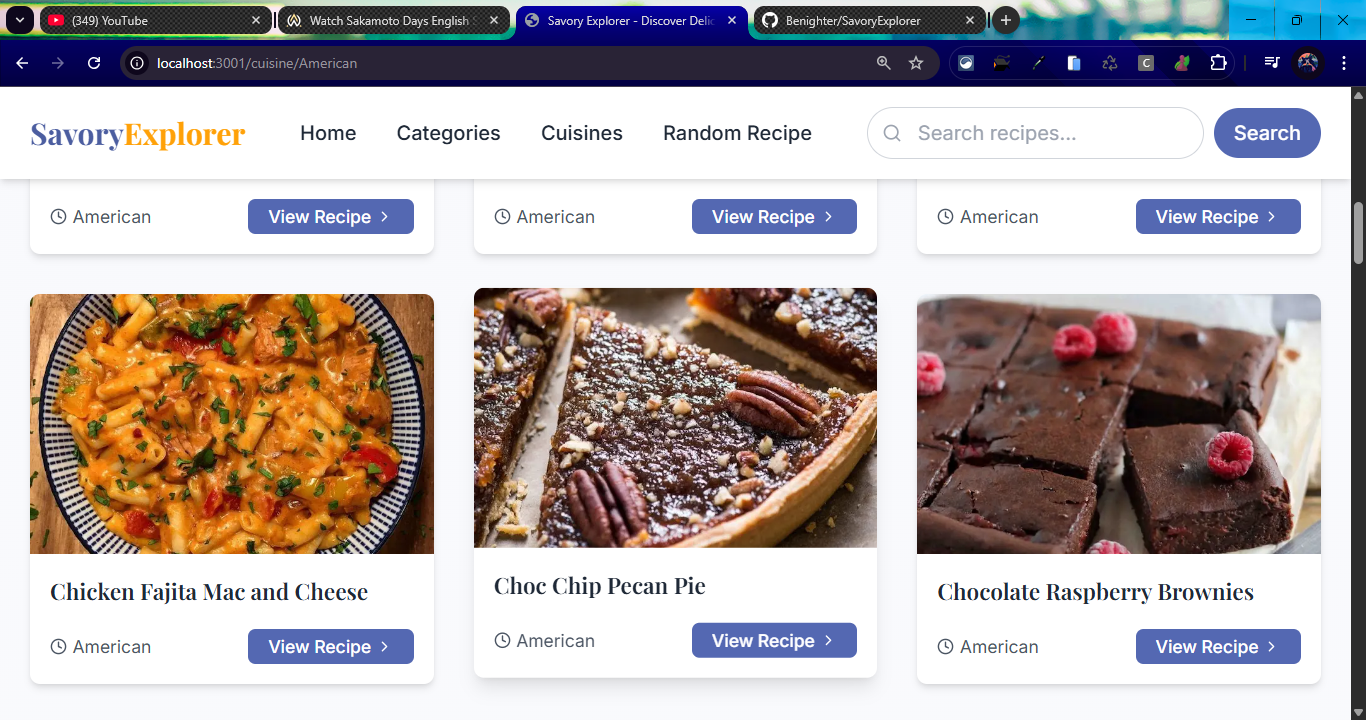
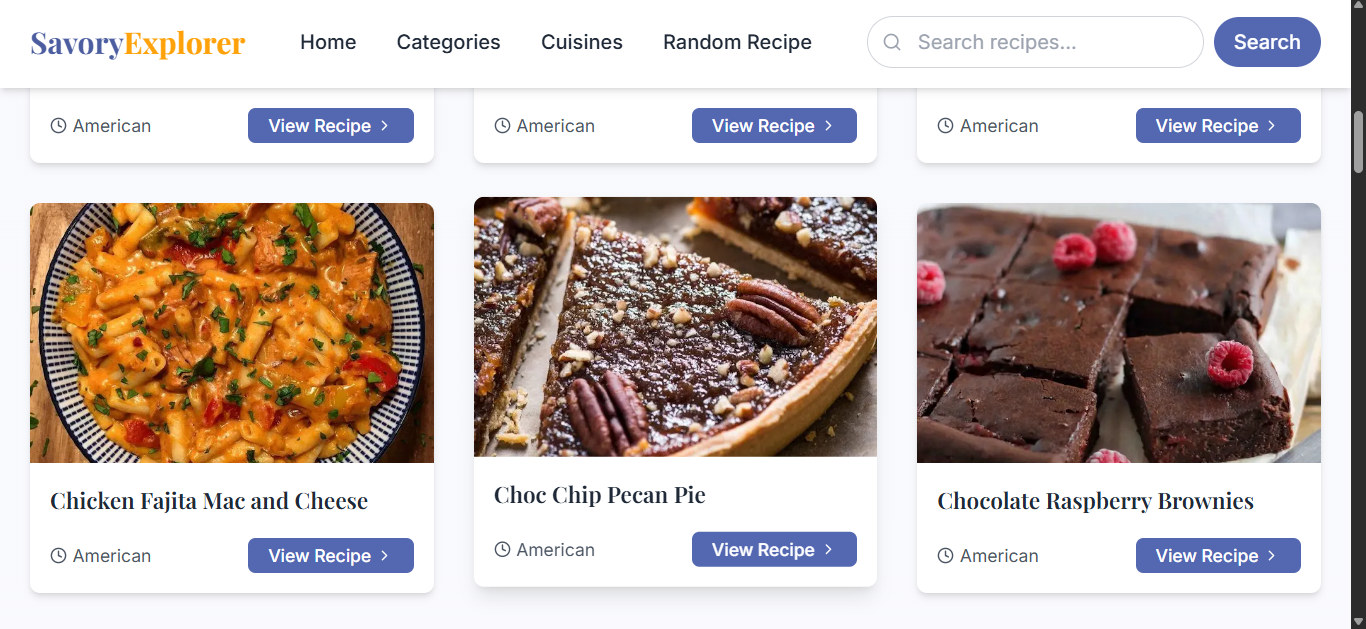
fixed the cards

diff --git a/components/RecipeCard/RecipeCard.tsx b/components/RecipeCard/RecipeCard.tsx
@@ -3,7 +3,7 @@
 import React from 'react';
 import Image from 'next/image';
 import Link from 'next/link';
-import { FiClock, FiChevronRight } from 'react-icons/fi';
+import { FiClock, FiChevronRight, FiMapPin } from 'react-icons/fi';
 import { motion } from 'framer-motion';
 
 interface RecipeCardProps {
@@ -17,7 +17,7 @@ interface RecipeCardProps {
 const RecipeCard = ({ id, title, category, area, imageUrl }: RecipeCardProps) => {
   return (
     <motion.div 
-      className="card h-full"
+      className="card h-full flex flex-col"
       whileHover={{ y: -5 }}
       transition={{ duration: 0.3 }}
     >
@@ -35,19 +35,16 @@ const RecipeCard = ({ id, title, category, area, imageUrl }: RecipeCardProps) =>
           </span>
         )}
       </div>
-      <div className="p-4">
+      <div className="p-4 flex-grow flex flex-col">
         <h3 className="font-heading font-semibold text-lg mb-2 line-clamp-2">{title}</h3>
-        <div className="flex justify-between items-center mt-4">
-          <div className="flex items-center text-gray-600 text-sm">
-            {area ? (
-              <>
-                <FiClock className="mr-1" />
-                <span>{area}</span>
-              </>
-            ) : (
-              <span className="opacity-0">Placeholder</span>
-            )}
+        {area && (
+          <div className="flex items-center text-gray-600 text-sm mb-4">
+            <FiMapPin className="mr-1" />
+            <span>{area}</span>
           </div>
+        )}
+        <div className="flex-grow"></div>
+        <div className="mt-4 flex justify-end">
           <Link href={`/recipe/${id}`} className="btn btn-primary flex items-center text-sm py-1">
             View Recipe
             <FiChevronRight className="ml-1" />
